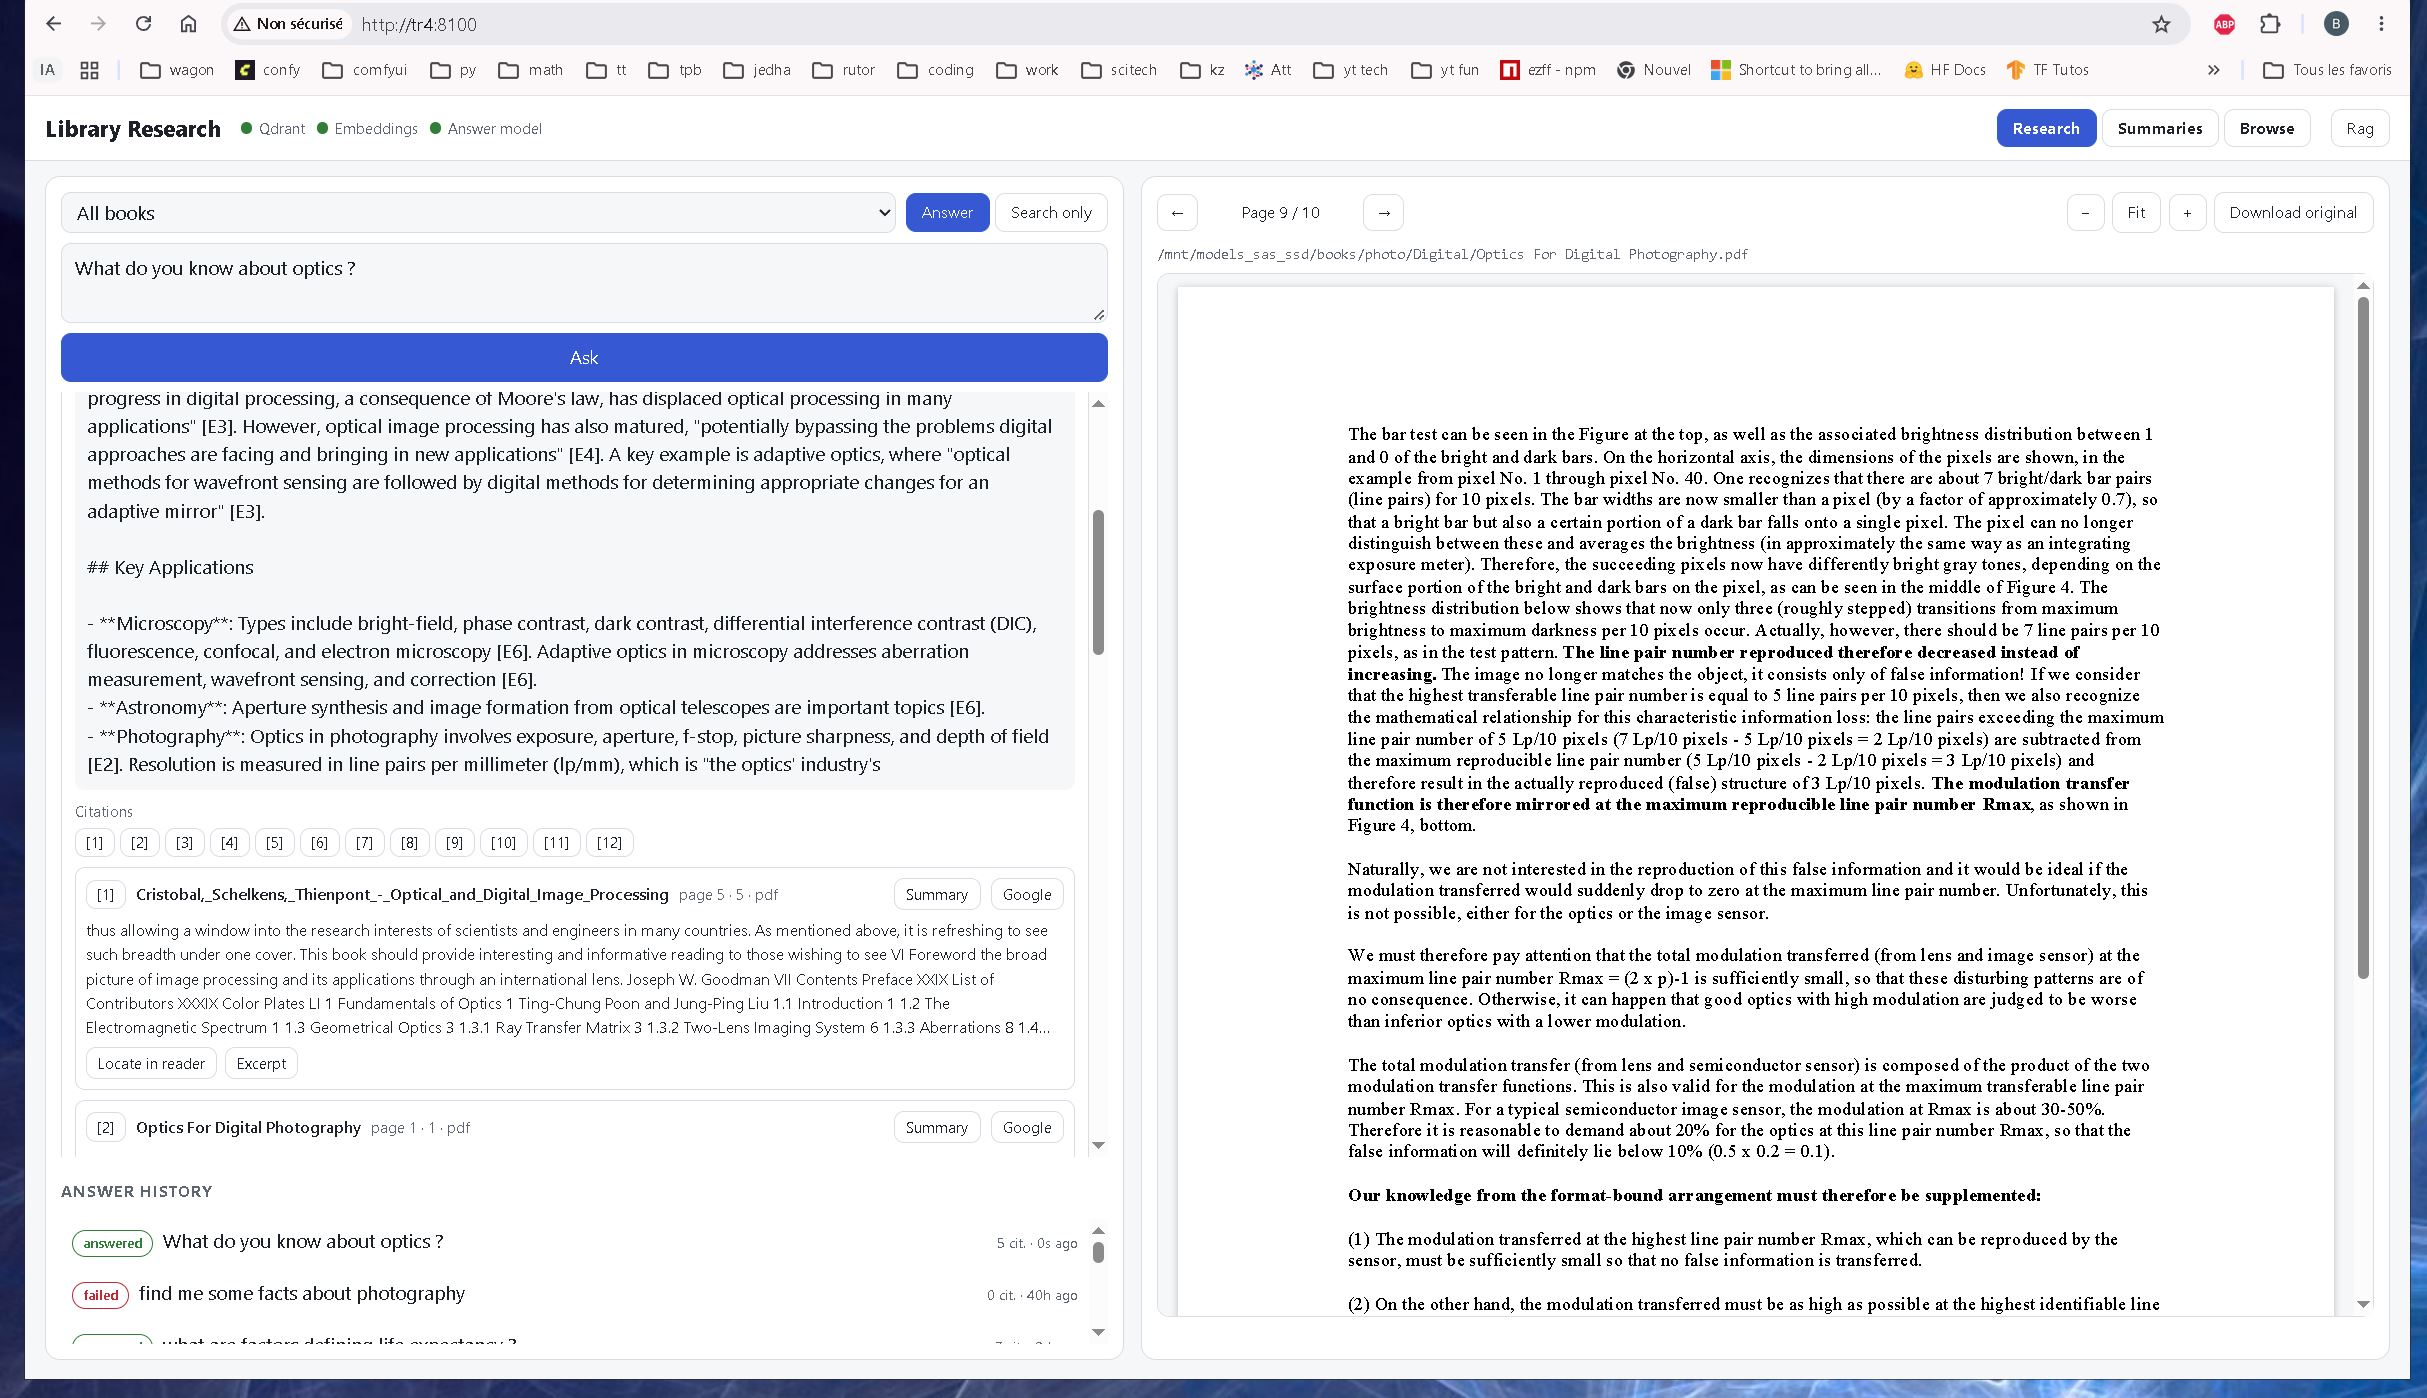
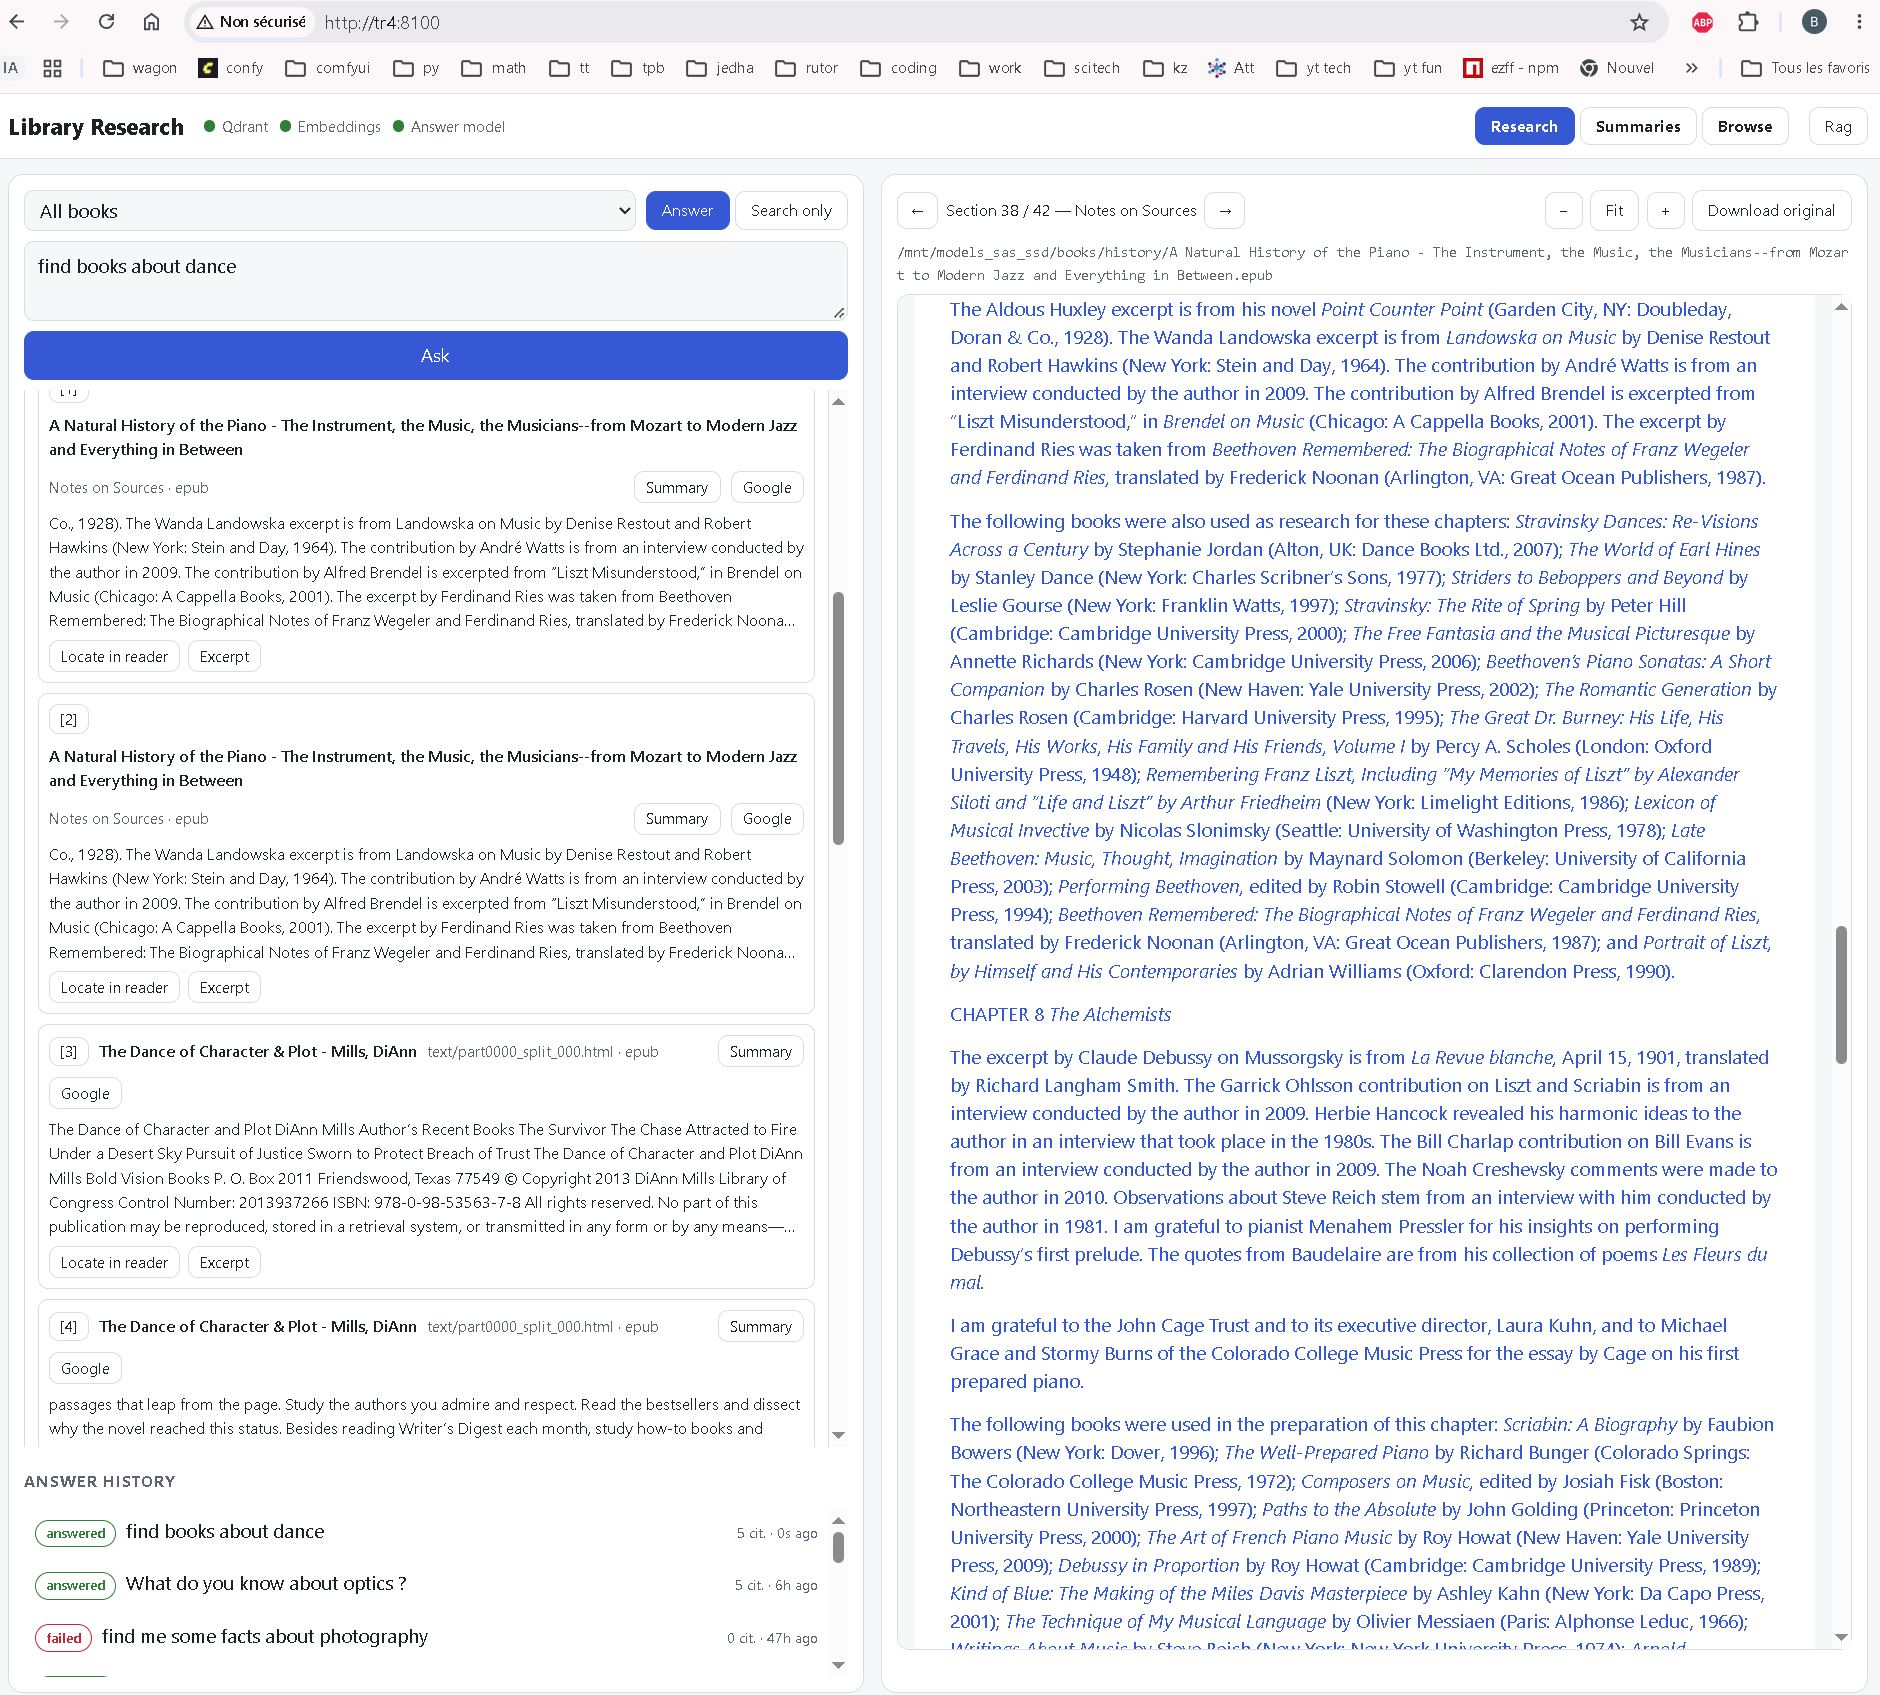
progress: log toggles, on-disk totals, global file_types addendum + operator screenshots

diff --git a/PROGRESS.md b/PROGRESS.md
@@ -2991,3 +2991,34 @@ end and breaks once N complete lines are present.
   (20px) after the log controls.
 - Web-only changes: rebuilt bundle served from disk, no serve restart
   (bundle index-CfPfSb3O.js).
+
+### Addendum (2026-09-24 ~20:55) — log toggles, on-disk totals, global file_types
+- Diagnostics log buttons now toggle: a second click on "Last 1000 log"
+  or "Failed job logs" closes the shared log view (`logMode` state; the
+  job-log detail inherits "jobs" mode, so the close works from there
+  too).
+- Diagnostics catalog cards gained on-disk repository totals: `disk_books`
+  (total book files under the source roots, counted with the same
+  `iter_candidate_paths` a scan uses — same ignore dirs, no symlinks),
+  `disk_by_ext` (per-extension breakdown), `disk_unprocessed`
+  (= disk total − processed). New "Books on disk" card shows
+  `N (x .pdf · y .epub)`; "Unprocessed" card shows the backlog.
+- `browse.file_types` moved to a top-level global `file_types` setting
+  (default `[".pdf", ".epub"]`, normalized + deduped at load, validated
+  against `SUPPORTED_FILE_TYPES` — unsupported/empty/undotted entries are
+  a `ConfigError`). The scanner, browse, coverage, latency and pilot all
+  filter to it; a leftover `browse.file_types` key is silently ignored
+  (legacy configs load fine).
+- Live config updated: `file_types: [.pdf, .epub]` now global; `browse:`
+  keeps only `enabled`/`root`. Backup: `config.sandbox.yaml.pre-filetypes`.
+- Gate: ruff clean, mypy 12 pre-existing test_browse errors only, pytest
+  591 passed (567 baseline + 22 + 2 new: disk-walk stats test,
+  global-file-types scan test).
+- Live E2E (~20:57): serve restarted (old 28310 SIGTERM'd in 2 s; new
+  python pid **45694**, `serve.pid` updated; no ingest worker — the
+  `ingest_worker.pid` file is stale). `/ready` all true.
+  `/system/catalog`: on-disk **34,768 books** (25,542 .pdf + 9,226 .epub),
+  34,433 unprocessed; catalog unchanged 344 / 335 / 335 / 54,270 chunks.
+  `/browse/dir` lists the category tree correctly. New bundle
+  `index-BvF91VSZ.js` — operator should hard-refresh.
+- Full-library launch still HELD on explicit operator approval.
